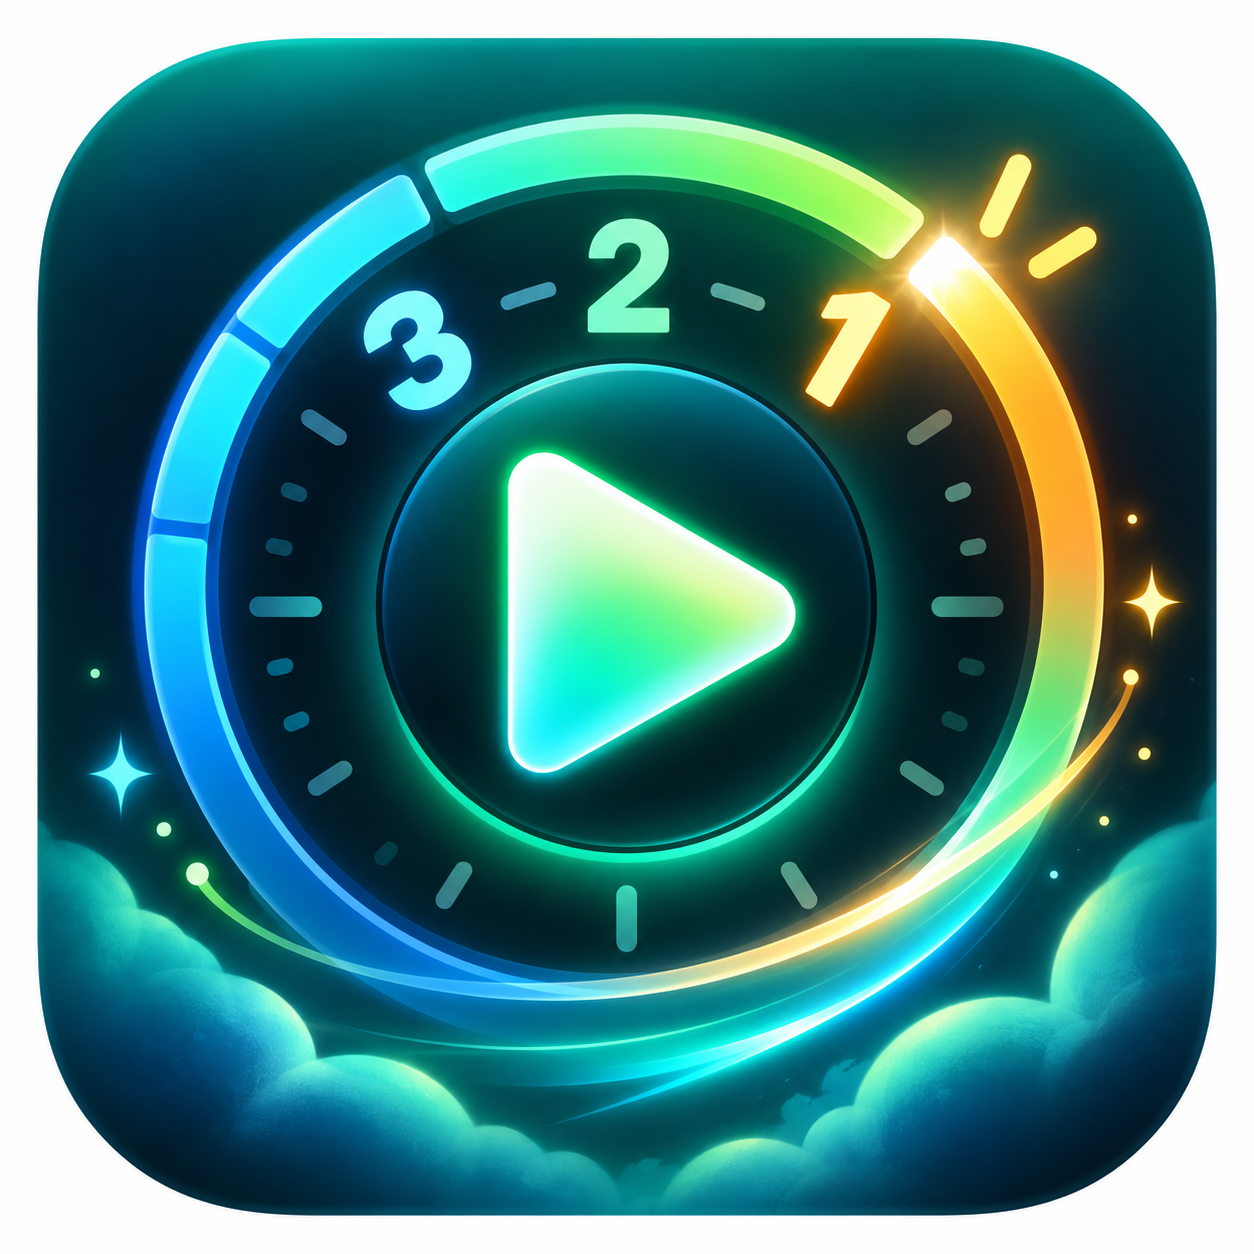
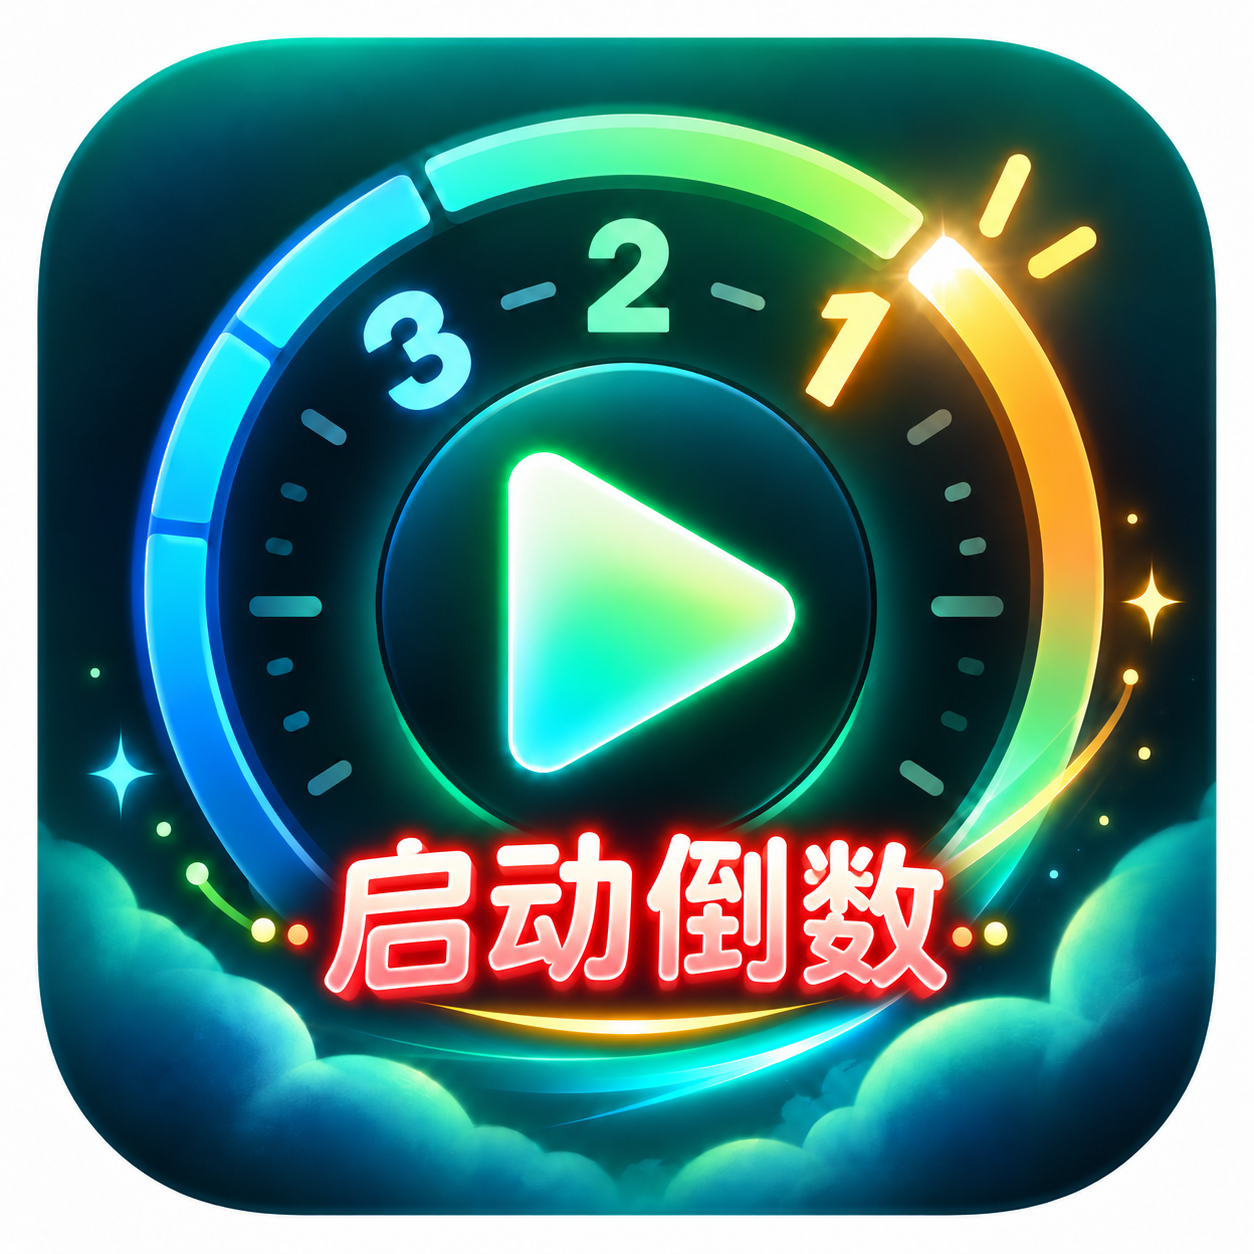
Add files via upload

diff --git a/index.html b/index.html
@@ -11,127 +11,18 @@
   <meta name="apple-mobile-web-app-title" content="启动倒数" />
   <meta name="theme-color" content="#091a2a" />
   <style>
-    :root {
-      --bg1: #07111d;
-      --bg2: #0d2540;
-      --card: rgba(12, 27, 45, 0.82);
-      --line: rgba(126, 216, 255, 0.28);
-      --text: #eaf7ff;
-      --muted: #a8c4d8;
-      --glow: #4fe6ff;
-      --accent: #ff2f3d;
-      --accent2: #ffd24d;
-      --ok: #56f0a6;
-      --err: #ff9b9b;
-    }
-
-    * { box-sizing: border-box; }
-
-    body {
-      margin: 0;
-      min-height: 100vh;
-      font-family: -apple-system, BlinkMacSystemFont, "Segoe UI", Roboto, "PingFang SC", "Microsoft YaHei", sans-serif;
-      color: var(--text);
-      background:
-        radial-gradient(circle at 20% 20%, rgba(68, 224, 255, 0.16), transparent 26%),
-        radial-gradient(circle at 80% 10%, rgba(255, 199, 71, 0.18), transparent 22%),
-        linear-gradient(180deg, var(--bg2), var(--bg1));
-      display: flex;
-      align-items: center;
-      justify-content: center;
-      padding: 24px;
-    }
-
-    .app {
-      width: min(92vw, 460px);
-      border-radius: 28px;
-      padding: 28px 22px 24px;
-      background: var(--card);
-      border: 1px solid var(--line);
-      box-shadow: 0 16px 48px rgba(0, 0, 0, 0.38), inset 0 0 0 1px rgba(255,255,255,0.03);
-      backdrop-filter: blur(16px);
-      text-align: center;
-    }
-
-    .icon {
-      width: 112px;
-      height: 112px;
-      border-radius: 26px;
-      object-fit: cover;
-      box-shadow: 0 0 28px rgba(79, 230, 255, 0.28);
-      display: block;
-      margin: 0 auto 18px;
-    }
-
-    h1 {
-      margin: 0;
-      font-size: 30px;
-      line-height: 1.12;
-      letter-spacing: 0.5px;
-      color: #ff4b57;
-      text-shadow: 0 0 12px rgba(255, 77, 87, 0.25);
-    }
-
-    .sub {
-      margin: 12px auto 24px;
-      color: var(--muted);
-      font-size: 16px;
-      line-height: 1.55;
-      max-width: 320px;
-    }
-
-    .btn {
-      width: 100%;
-      border: none;
-      border-radius: 20px;
-      padding: 18px 18px;
-      font-size: 28px;
-      font-weight: 800;
-      letter-spacing: 1px;
-      cursor: pointer;
-      color: white;
-      background: linear-gradient(135deg, #ff3646 0%, #ff6b2f 45%, #ffb224 100%);
-      box-shadow: 0 12px 30px rgba(255, 82, 82, 0.35);
-      transition: transform 0.15s ease, box-shadow 0.15s ease, opacity 0.15s ease;
-    }
-
-    .btn:hover { transform: translateY(-1px); }
-    .btn:active { transform: scale(0.985); }
-    .btn:disabled {
-      opacity: 0.7;
-      cursor: not-allowed;
-      transform: none;
-    }
-
-    .hint {
-      margin-top: 14px;
-      font-size: 13px;
-      color: #93b4c9;
-    }
-
-    .status {
-      margin-top: 18px;
-      text-align: left;
-      border-radius: 18px;
-      padding: 14px 15px;
-      min-height: 74px;
-      background: rgba(255, 255, 255, 0.04);
-      border: 1px solid rgba(255,255,255,0.08);
-      font-size: 14px;
-      line-height: 1.6;
-      word-break: break-word;
-      white-space: pre-wrap;
-    }
-
-    .status.ok { border-color: rgba(86, 240, 166, 0.4); color: #d9fff0; }
-    .status.err { border-color: rgba(255, 155, 155, 0.4); color: #ffe2e2; }
-    .status.loading { border-color: rgba(79, 230, 255, 0.32); color: #dcf8ff; }
-
-    .footer {
-      margin-top: 14px;
-      color: #7ea2ba;
-      font-size: 12px;
-    }
+    :root{--bg1:#07111d;--bg2:#0d2540;--card:rgba(12,27,45,.82);--line:rgba(126,216,255,.28);--text:#eaf7ff;--muted:#a8c4d8}
+    *{box-sizing:border-box} body{margin:0;min-height:100vh;font-family:-apple-system,BlinkMacSystemFont,"Segoe UI",Roboto,"PingFang SC","Microsoft YaHei",sans-serif;color:var(--text);background:radial-gradient(circle at 20% 20%,rgba(68,224,255,.16),transparent 26%),radial-gradient(circle at 80% 10%,rgba(255,199,71,.18),transparent 22%),linear-gradient(180deg,var(--bg2),var(--bg1));display:flex;align-items:center;justify-content:center;padding:24px}
+    .app{width:min(92vw,460px);border-radius:28px;padding:28px 22px 24px;background:var(--card);border:1px solid var(--line);box-shadow:0 16px 48px rgba(0,0,0,.38),inset 0 0 0 1px rgba(255,255,255,.03);backdrop-filter:blur(16px);text-align:center}
+    .icon{width:112px;height:112px;border-radius:26px;object-fit:cover;box-shadow:0 0 28px rgba(79,230,255,.28);display:block;margin:0 auto 18px}
+    h1{margin:0;font-size:30px;line-height:1.12;letter-spacing:.5px;color:#ff4b57;text-shadow:0 0 12px rgba(255,77,87,.25)}
+    .sub{margin:12px auto 24px;color:var(--muted);font-size:16px;line-height:1.55;max-width:320px}
+    .btn{width:100%;border:none;border-radius:20px;padding:18px;font-size:28px;font-weight:800;letter-spacing:1px;cursor:pointer;color:white;background:linear-gradient(135deg,#ff3646 0%,#ff6b2f 45%,#ffb224 100%);box-shadow:0 12px 30px rgba(255,82,82,.35);transition:transform .15s ease,box-shadow .15s ease,opacity .15s ease}
+    .btn:hover{transform:translateY(-1px)} .btn:active{transform:scale(.985)} .btn:disabled{opacity:.7;cursor:not-allowed;transform:none}
+    .hint{margin-top:14px;font-size:13px;color:#93b4c9}
+    .status{margin-top:18px;text-align:left;border-radius:18px;padding:14px 15px;min-height:74px;background:rgba(255,255,255,.04);border:1px solid rgba(255,255,255,.08);font-size:14px;line-height:1.6;word-break:break-word;white-space:pre-wrap}
+    .status.ok{border-color:rgba(86,240,166,.4);color:#d9fff0}.status.err{border-color:rgba(255,155,155,.4);color:#ffe2e2}.status.loading{border-color:rgba(79,230,255,.32);color:#dcf8ff}
+    .footer{margin-top:14px;color:#7ea2ba;font-size:12px}
   </style>
 </head>
 <body>
@@ -139,44 +30,35 @@
     <img class="icon" src="/icon.png" alt="启动倒数图标" />
     <h1>启动倒数</h1>
     <div class="sub">开播前准备好直播贴文后，点击一次按钮，就会触发 Make 倒数流程。</div>
-
-    <button id="triggerBtn" class="btn">▶ 启动倒数</button>
+    <button id="triggerBtn" class="btn" type="button">▶ 启动倒数</button>
     <div class="hint">不会跳去 JSON 页面，可连续多次点击使用。</div>
-
     <div id="status" class="status">等待操作…</div>
     <div class="footer">Lover Legend Gardening</div>
   </main>
-
   <script>
     const btn = document.getElementById('triggerBtn');
     const statusBox = document.getElementById('status');
-
     function setStatus(type, text) {
       statusBox.className = 'status ' + type;
       statusBox.textContent = text;
     }
-
-    btn.addEventListener('click', async () => {
+    btn.addEventListener('click', async function () {
       btn.disabled = true;
       btn.textContent = '⏳ 处理中...';
       setStatus('loading', '正在触发倒数，请稍候...');
-
       try {
-        const response = await fetch('/api/trigger', { method: 'GET' });
+        const response = await fetch('/api/trigger', { method: 'GET', cache: 'no-store' });
         const data = await response.json();
         if (response.ok) {
-          setStatus('ok', (data.message || '✅ 已成功触发') + (data.success === false ? '
-注意：返回 success=false' : ''));
+          setStatus('ok', data.message || '✅ 已成功触发');
         } else {
-          setStatus('err', (data.message || '❌ 触发失败') + (data.error ? '
-' + data.error : ''));
+          setStatus('err', (data.message || '❌ 触发失败') + (data.error ? '\n' + data.error : ''));
         }
       } catch (error) {
-        setStatus('err', '❌ 无法连接系统
-' + error.message);
+        setStatus('err', '❌ 无法连接系统\n' + error.message);
       } finally {
         btn.disabled = false;
-        btn.textContent = '▶ 启动倒数';
+        btn.textContent = '▶ 再次启动倒数';
       }
     });
   </script>

diff --git a/README.md b/README.md
@@ -1,12 +1,5 @@
 # SystemON
 
-合并版内容：
-- `/api/trigger.js`：触发 Make Webhook，并自动抓取 Facebook 最新贴文 ID
-- `/index.html`：启动倒数页面（不会跳去 JSON 页面，可重复点击）
-- `/icon.png`：启动倒数 App 图标
+合并版：网页按钮 + Vercel API + 已确认启动倒数图标。
 
-## Vercel 环境变量
-请确认已设置：
-- `WEBHOOK_URL`
-- `PAGE_ID`
-- `FB_ACCESS_TOKEN`
+Vercel 环境变量：WEBHOOK_URL、PAGE_ID、FB_ACCESS_TOKEN。
